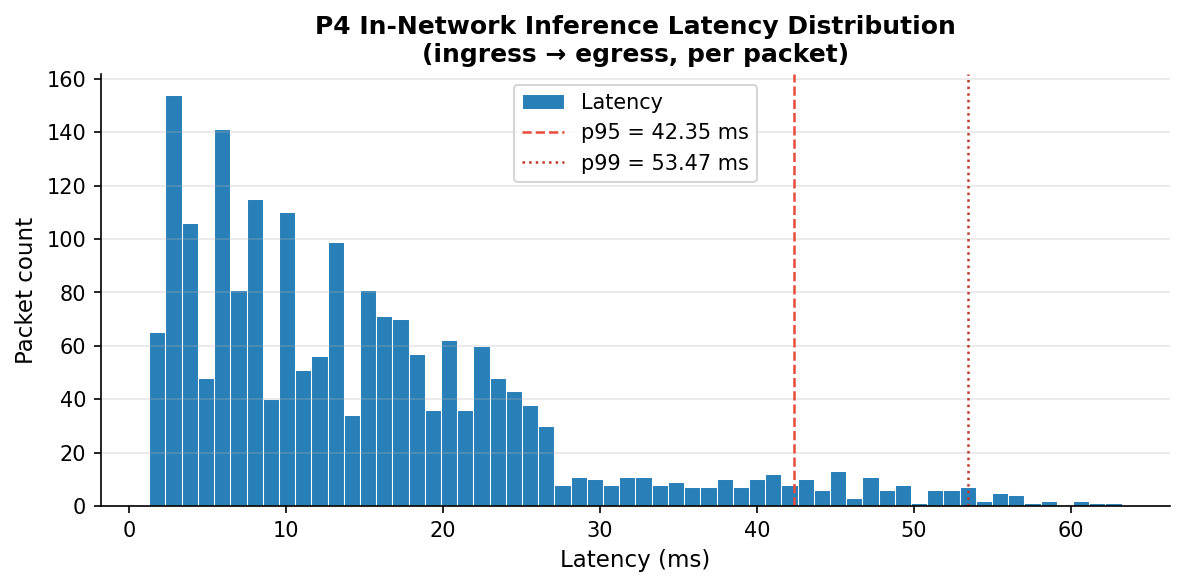
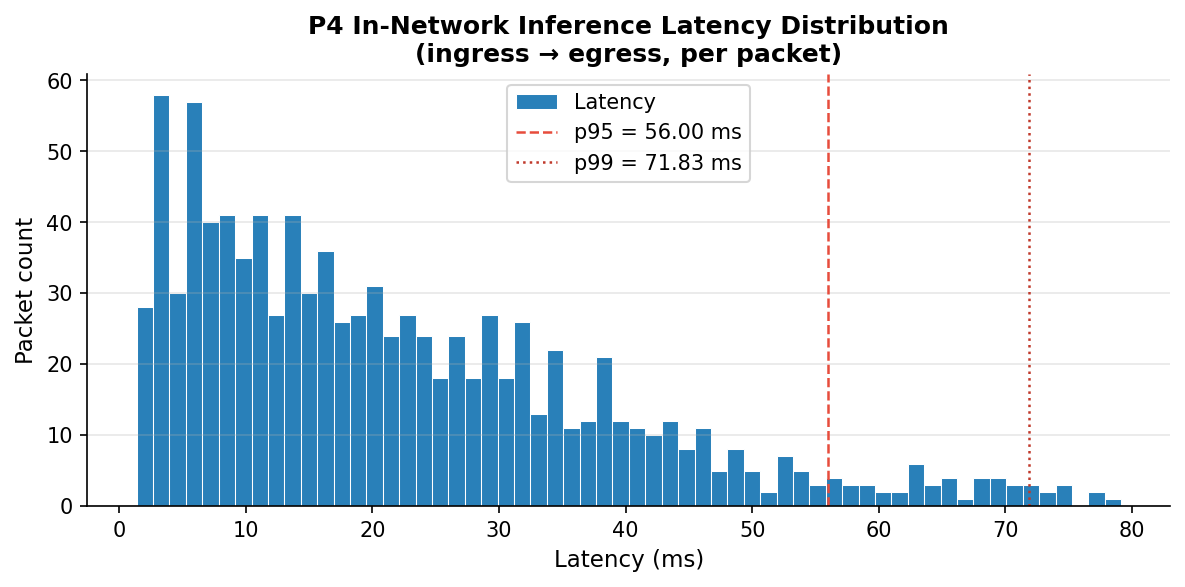
added deq_timedelta of standard_metadata and register_charts comparing queue latency per-packet egress / ingress

diff --git a/p4lang-tutorials/tutorials/exercises/SwitchTree/results/make_register_charts.py b/p4lang-tutorials/tutorials/exercises/SwitchTree/results/make_register_charts.py
@@ -1,0 +1,107 @@
+#!/usr/bin/env python3
+"""Compare P4 register latency stats: Baseline vs RF model.
+
+Produces results/figures/register_latency_comparison.png
+"""
+
+import os
+import matplotlib
+matplotlib.use('Agg')
+import matplotlib.pyplot as plt
+import numpy as np
+
+FIGURES_DIR = os.path.join(os.path.dirname(__file__), 'figures')
+os.makedirs(FIGURES_DIR, exist_ok=True)
+
+# ── Raw register values (update these after each experiment run) ──────────────
+
+BASELINE = dict(
+    deq_count=1025, deq_sum=207381,  deq_min=7,   deq_max=7830,
+    ing_count=1026, ing_sum=20002452, ing_min=155,  ing_max=84746,
+)
+
+RF = dict(
+    deq_count=2028, deq_sum=425562,  deq_min=7,   deq_max=7830,
+    ing_count=2029, ing_sum=41657349, ing_min=155,  ing_max=97526,
+)
+
+# ── Derived averages ──────────────────────────────────────────────────────────
+
+def avg(d, prefix):
+    return d[f'{prefix}_sum'] / d[f'{prefix}_count']
+
+BLUE  = '#1e50a0'
+RED   = '#c0392b'
+GREEN = '#27ae60'
+
+def make_chart():
+    metrics = [
+        ('deq', 'Queue delay\n(deq_timedelta)'),
+        ('ing', 'Pipeline latency\n(egress − ingress − queue)'),
+    ]
+
+    fig, axes = plt.subplots(1, 2, figsize=(11, 5))
+    fig.suptitle('P4 Register Latency — Baseline vs RF Model\n(BMv2, units: nanoseconds)',
+                 fontsize=13, fontweight='bold')
+
+    for ax, (prefix, title) in zip(axes, metrics):
+        b_avg = avg(BASELINE, prefix)
+        r_avg = avg(RF,       prefix)
+        b_min, b_max = BASELINE[f'{prefix}_min'], BASELINE[f'{prefix}_max']
+        r_min, r_max = RF[f'{prefix}_min'],       RF[f'{prefix}_max']
+
+        x      = np.array([0, 1])
+        avgs   = np.array([b_avg, r_avg])
+        yerr_lo = np.array([b_avg - b_min, r_avg - r_min])
+        yerr_hi = np.array([b_max - b_avg, r_max - r_avg])
+
+        bars = ax.bar(x, avgs, color=[BLUE, RED], width=0.45,
+                      alpha=0.85, edgecolor='white', linewidth=1.2)
+        ax.errorbar(x, avgs, yerr=[yerr_lo, yerr_hi],
+                    fmt='none', color='black', capsize=8, linewidth=1.8, zorder=4)
+
+        # Value labels on bars
+        y_ceil = max(b_max, r_max)
+        nudge  = y_ceil * 0.02
+        for bar, val in zip(bars, avgs):
+            ax.text(bar.get_x() + bar.get_width() / 2, val + nudge,
+                    f'{val:,.0f}', ha='center', va='bottom', fontsize=9, fontweight='bold')
+
+        # Percent overhead annotation (between the two bars)
+        if b_avg:
+            delta_pct = (r_avg - b_avg) / b_avg * 100
+            sign = '+' if delta_pct >= 0 else ''
+            color = RED if delta_pct > 0 else GREEN
+            ax.annotate(f'{sign}{delta_pct:.1f}%',
+                        xy=(0.5, max(b_avg, r_avg)),
+                        xytext=(0.5, y_ceil * 1.15),
+                        xycoords=('axes fraction', 'data'),
+                        textcoords=('axes fraction', 'data'),
+                        ha='center', va='bottom', fontsize=10, color=color, fontweight='bold',
+                        arrowprops=dict(arrowstyle='->', color=color, lw=1.5))
+
+        ax.set_xticks(x)
+        ax.set_xticklabels(['Baseline', 'RF model'], fontsize=10)
+        ax.set_ylabel('Latency (ns)', fontsize=10)
+        ax.set_ylim(0, y_ceil * 1.35)
+        ax.set_title(title, fontsize=11)
+        ax.grid(axis='y', alpha=0.3)
+        ax.spines['top'].set_visible(False)
+        ax.spines['right'].set_visible(False)
+
+        # Min/max annotation box
+        summary = (f"Baseline: avg {b_avg:,.0f}  min {b_min}  max {b_max:,}\n"
+                   f"RF:       avg {r_avg:,.0f}  min {r_min}  max {r_max:,}")
+        ax.text(0.02, 0.97, summary, transform=ax.transAxes,
+                fontsize=7.5, va='top', ha='left', family='monospace',
+                bbox=dict(boxstyle='round,pad=0.4', fc='white', alpha=0.7))
+
+    plt.tight_layout()
+    out = os.path.join(FIGURES_DIR, 'register_latency_comparison.png')
+    plt.savefig(out, dpi=150, bbox_inches='tight')
+    plt.close()
+    print(f'Saved: {out}')
+
+
+if __name__ == '__main__':
+    make_chart()